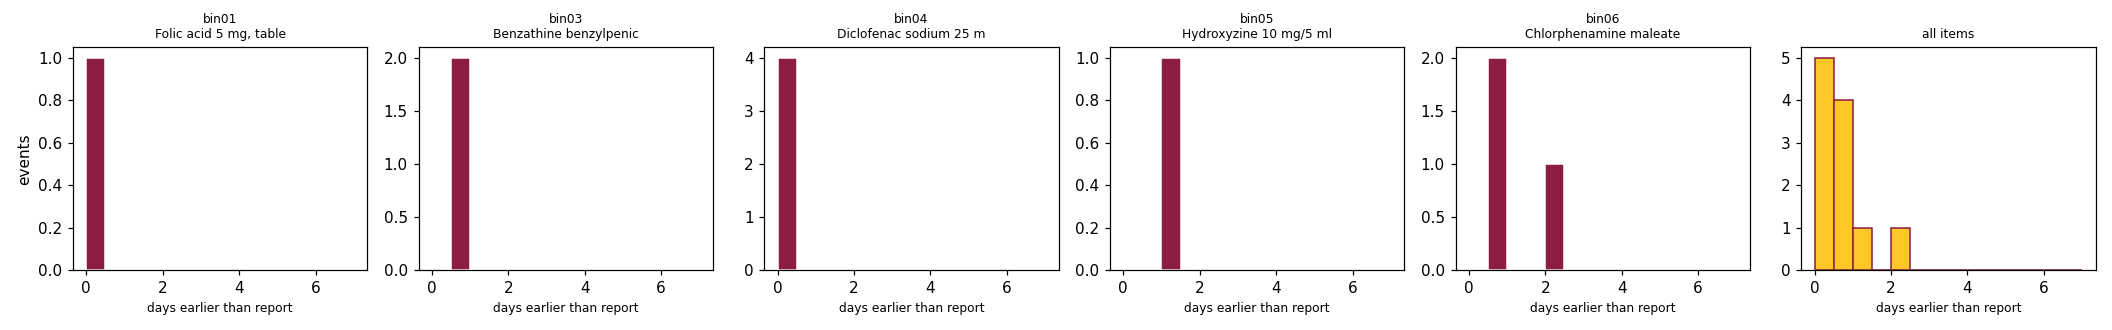
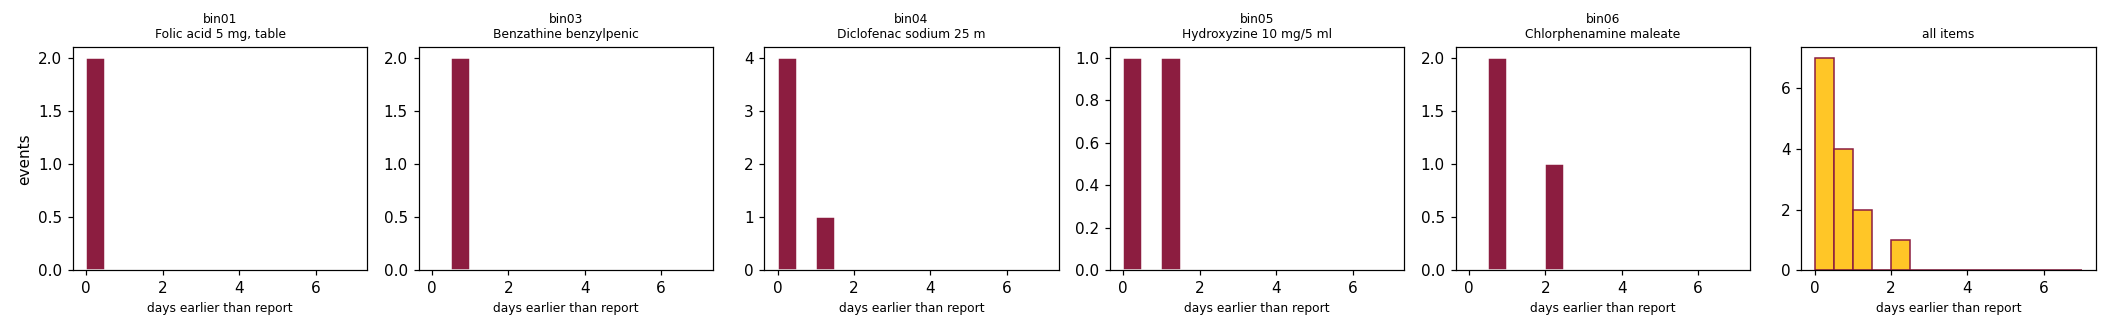
Twin branding and layout fixes; latency rerun on the full 159-day series
- twin: white header with the ASU logo and a clean title; CSS logo on the L3 dashboard and a
  CSS / DINALOG sign on the wall; the P-240 pop-up hides the events panel instead of overlapping it;
  header stays on one line at 1280 px
- latency (T3.6) rerun through the whole chain on the 109 report dates (8 Jun - 13 Nov 2026):
  14 crossings, mean 0.72 days, median 0.49, max 2.40; tools/latency.py reads the dates from the config
- Node-RED flow laid out more cleanly (no node positions changed in behaviour)
- README, work plan and simulator help: 159 days take about 27 minutes

diff --git a/docs/twin/index.html b/docs/twin/index.html
@@ -20,20 +20,22 @@
   #app { display: flex; flex-direction: column; height: 100%; }
 
   /* ---------- top bar ---------- */
-  #top { display: flex; align-items: center; gap: 18px; padding: 8px 16px; background: var(--maroon); color: #fff; flex-wrap: wrap; }
-  .brand { display: flex; align-items: baseline; gap: 10px; }
-  .brand .kicker { font-size: 10.5px; letter-spacing: .08em; text-transform: uppercase; opacity: .85; }
-  .brand h1 { margin: 0; font-size: 18px; font-weight: 650; white-space: nowrap; }
-  .brand h1 b { color: var(--gold); font-weight: 650; }
-  .seg { display: flex; background: rgba(255,255,255,.14); border-radius: 9px; padding: 3px; gap: 3px; }
+  #top { display: flex; align-items: center; gap: 16px; padding: 8px 16px; background: #fff; color: var(--ink);
+    border-bottom: 4px solid var(--gold); flex-wrap: wrap; }
+  .brand { display: flex; align-items: center; gap: 14px; }
+  .brand img { height: 38px; display: block; }
+  .brand h1 { margin: 0; font-size: 18px; font-weight: 700; color: var(--maroon); white-space: nowrap; line-height: 1.15; }
+  .brand .kicker { font-size: 12px; color: var(--muted); white-space: nowrap; }
+  .seg { display: flex; background: var(--idle); border-radius: 9px; padding: 3px; gap: 3px; }
   .seg button { border: 0; background: transparent; padding: 6px 11px; border-radius: 7px; font: inherit; font-size: 13px;
-    color: rgba(255,255,255,.85); cursor: pointer; white-space: nowrap; }
-  .seg button.on { background: #fff; color: var(--maroon); font-weight: 650; }
+    color: var(--muted); cursor: pointer; white-space: nowrap; }
+  .seg button.on { background: var(--maroon); color: #fff; font-weight: 650; }
   .clock { line-height: 1.15; }
   .clock .date { font-size: 16px; font-weight: 650; white-space: nowrap; font-variant-numeric: tabular-nums; }
-  .clock .day { font-size: 11.5px; opacity: .85; }
+  .clock .day { font-size: 11.5px; color: var(--muted); }
   .chips { display: flex; gap: 6px; flex-wrap: wrap; }
-  .chip { padding: 4px 9px; border-radius: 999px; font-size: 12px; background: rgba(255,255,255,.88); color: var(--muted); white-space: nowrap; }
+  .chip { padding: 4px 9px; border-radius: 999px; font-size: 12px; background: var(--idle); color: var(--muted); white-space: nowrap; }
+  body.binsel #events { visibility: hidden; }
   .chip.ok { background: var(--ok); color: var(--ok-ink); }
   .chip.low { background: var(--low); color: var(--low-ink); }
   .chip.flag { background: var(--flag); color: var(--flag-ink); }
@@ -60,7 +62,8 @@
   .btn.on { background: var(--maroon); color: #fff; }
   .btn.fault.on { background: var(--flag); color: var(--flag-ink); font-weight: 600; }
   .gap { width: 10px; }
-  #srcnote { margin-left: auto; font-size: 12px; color: var(--muted); text-align: right; }
+  #srcnote { margin-left: auto; font-size: 12px; color: var(--muted); text-align: right; flex: 1 1 0; min-width: 0;
+    white-space: nowrap; overflow: hidden; text-overflow: ellipsis; }
   #srcnote code { font-size: 11.5px; }
 
   /* ---------- 3D stage ---------- */
@@ -135,6 +138,9 @@
     border-radius: 8px; font: inherit; margin-top: 3px; }
   dialog .actions { display: flex; justify-content: flex-end; gap: 8px; margin-top: 16px; }
 
+  @media (max-width: 1360px) {
+    #c-msgs { display: none; }
+  }
   @media (max-width: 1100px) {
     #bins { grid-template-columns: repeat(3, minmax(0, 1fr)); }
     .bin:nth-child(n+4) .detail { left: 0; right: auto; }
@@ -149,7 +155,7 @@
     #bins { grid-template-columns: repeat(2, minmax(0, 1fr)); padding: 8px 10px; }
     .bin:nth-child(n) .detail { left: 0; right: auto; }
     .bin:nth-child(2n) .detail { left: auto; right: 0; }
-    #srcnote { margin-left: 0; text-align: left; }
+    #srcnote { margin-left: 0; text-align: left; white-space: normal; flex-basis: 100%; }
   }
 </style>
 <script type="importmap">
@@ -160,8 +166,11 @@
 <div id="app">
   <header id="top">
     <div class="brand">
-      <div class="kicker">MFG 598 IIoT · Smart Kanban Bins · UE-A</div>
-      <h1>Shelf digital <b>twin</b></h1>
+      <img src="img/asu_logo.png" alt="Arizona State University">
+      <div>
+        <h1>Smart Kanban Bins · Digital Twin</h1>
+        <div class="kicker">MFG 598 IIoT · Group 2 · CSS facility UE-A</div>
+      </div>
     </div>
     <div class="seg" id="src">
       <button data-src="demo">Replay</button>

diff --git a/docs/twin/twin.js b/docs/twin/twin.js
@@ -337,6 +337,32 @@ for (const b of bins.values()) {                 // delivery path: from the ERP 
     new THREE.Vector3((L4.world.x + top.x) / 2, 1.45, 0.25), top.clone().add(new THREE.Vector3(0, 0.35, 0.05)), top]);
 }
 
+const CSS_LOGO = new Image();
+CSS_LOGO.onload = () => { ent.dirty = true; drawSign(); };
+CSS_LOGO.src = 'img/css_logo.png';
+
+// sign on the wall: whose shelf this is
+const sign = (() => {
+  const c = document.createElement('canvas'); c.width = 1400; c.height = 220;
+  const tex = new THREE.CanvasTexture(c); tex.colorSpace = THREE.SRGBColorSpace; tex.anisotropy = 8;
+  const m = new THREE.Mesh(new THREE.PlaneGeometry(1.5, 0.236), new THREE.MeshBasicMaterial({ map: tex, transparent: true, toneMapped: false }));
+  m.position.set(0.1, 2.15, -0.775);
+  scene.add(m);
+  return { c, tex };
+})();
+function drawSign() {
+  const ctx = sign.c.getContext('2d'), W = sign.c.width, H = sign.c.height;
+  ctx.clearRect(0, 0, W, H);
+  if (CSS_LOGO.complete && CSS_LOGO.naturalWidth) ctx.drawImage(CSS_LOGO, 10, 10, 200, 200);
+  ctx.textBaseline = 'middle';
+  ctx.fillStyle = '#1A5BA8'; ctx.font = '700 64px Segoe UI, Arial';
+  ctx.fillText('Caja de Seguro Social', 240, 78);
+  ctx.fillStyle = '#4b5563'; ctx.font = '40px Segoe UI, Arial';
+  ctx.fillText(`DINALOG · facility ${UE} · smart Kanban pharmacy shelf`, 242, 150);
+  sign.tex.needsUpdate = true;
+}
+drawSign();
+
 const ent = { hist: new Map(), reqs: [], seq: 0, cloudMin: null, cycle: null, dirty: true };
 function resetEnterprise() {
   ent.hist = new Map([...bins.keys()].map(k => [k, []]));
@@ -394,9 +420,13 @@ function drawL3() {
   const { ctx, canvas } = L3, W = canvas.width, H = canvas.height, s = W / 1400;
   ctx.fillStyle = '#111217'; ctx.fillRect(0, 0, W, H);
   ctx.fillStyle = '#e8e9ed'; ctx.font = `600 ${30 * s}px Segoe UI, Arial`; ctx.textBaseline = 'middle';
-  const title = `Smart Kanban · ${UE}`;
-  ctx.fillText(title, 28 * s, 34 * s);
-  const tx = 28 * s + ctx.measureText(title).width + 22 * s;
+  let lx = 28 * s;
+  if (CSS_LOGO.complete && CSS_LOGO.naturalWidth) { ctx.fillStyle = '#fff'; ctx.beginPath(); ctx.arc(lx + 25 * s, 34 * s, 25 * s, 0, Math.PI * 2); ctx.fill();
+    ctx.drawImage(CSS_LOGO, lx + 1 * s, 10 * s, 48 * s, 48 * s); lx += 62 * s; }
+  ctx.fillStyle = '#e8e9ed';
+  const title = `CSS · Smart Kanban · ${UE}`;
+  ctx.fillText(title, lx, 34 * s);
+  const tx = lx + ctx.measureText(title).width + 22 * s;
   ctx.font = `${20 * s}px Segoe UI, Arial`; ctx.fillStyle = '#9aa0ab';
   ctx.fillText(ent.cloudMin != null ? 'last data in the cloud: ' + simDate(ent.cloudMin) : 'waiting for data', tx, 35 * s);
   const online = state.gateway !== 'offline' && state.lastMsg;
@@ -563,6 +593,7 @@ for (const b of bins.values()) {
 
 function select(binId) {
   state.selected = binId;
+  document.body.classList.toggle('binsel', !!binId);       // the P-240 pop-up takes the place of the events panel
   for (const b of bins.values()) {
     const on = b.cfg.bin === binId;
     b.row.classList.toggle('sel', on);
@@ -602,7 +633,7 @@ function refreshChips() {
   else if (state.broker === true) setChip(ui.broker, 'ok', 'broker connected');
   else if (state.broker === false) setChip(ui.broker, 'flag', `broker down: ${state.queue} queued`);
   else setChip(ui.broker, '', 'broker —');
-  setChip(ui.msgs, 'info', `${state.sent.toLocaleString('en-US')} messages sent`);
+  setChip(ui.msgs, 'info', `${state.sent.toLocaleString('en-US')} msgs sent`);
   const down = state.broker === false || state.gateway === 'offline';
   ui.banner.style.display = down ? 'block' : 'none';
   ui.banner.textContent = state.gateway === 'offline' ? 'Gateway offline: last will received'

diff --git a/docs/index.html b/docs/index.html
@@ -412,7 +412,7 @@ const P = [
    "For each pair of consecutive report dates, the consumption is the drop in stock. An increase is a receipt and appears as a step up on the report date.",
    "Spread the drop over the days in between: draw daily Poisson values with mean = drop / days, then rescale so they add up exactly to the drop.",
    "Split each day into a few dispense events at random times.",
-   "Time compression from an environment variable, for example <code>SIM_SECONDS_PER_DAY=10</code> (131 days ≈ 22 minutes).",
+   "Time compression from an environment variable, for example <code>SIM_SECONDS_PER_DAY=10</code> (159 days ≈ 27 minutes).",
    "Convert units to grams: <code>tare + units × unit_g</code>, and write the registers.",
    "Add a test that checks the simulated stock against the SALMI value on every report date."]],
   ["T2.3","Six bins","Extend the simulator to six bins (one unit ID or register block per bin)","Edge reads six independent weights","DB","11-09","11-11","T2.2",[

diff --git a/tools/latency.py b/tools/latency.py
@@ -123,7 +123,8 @@ def main():
           "How much earlier does a sensed bin detect a P-240 reorder-point (ROP) crossing than "
           "the SALMI stock report would?", "",
           "## Method", "",
-          "1. A full replay of the 92 UE-A report dates (8 Jun - 17 Oct 2026) runs through the whole "
+          f"1. A full replay of the {cfg['report_dates']} UE-A report dates ({date.fromisoformat(cfg['first_date']):%d %b} - "
+          f"{date.fromisoformat(cfg['last_date']):%d %b %Y}) runs through the whole "
           "chain: simulator -> Modbus -> Node-RED edge (units, deadband, P-240 with hysteresis) -> MQTT -> ingest.",
           "2. For each reorder event published by the edge, the **sensed time** is the simulated time "
           "of the reading that crossed the ROP (`sim_min`, read from the simulator registers 40004-40005).",

diff --git a/simulator/server.py b/simulator/server.py
@@ -12,7 +12,7 @@ The stock follows the SALMI series (replay engine in replay.py), with time compr
 one simulated day lasts SIM_SECONDS_PER_DAY real seconds.
 
 Environment variables (all optional):
-  SIM_SECONDS_PER_DAY  real seconds per simulated day (default 10: 131 days = about 22 min)
+  SIM_SECONDS_PER_DAY  real seconds per simulated day (default 10: 159 days = about 27 min)
   SIM_START_DAY        simulated day to start from (default 0)
   SIM_LOOP             1 = start the replay again after the last report date (default 1)
   SIM_SEED             random seed for the replay paths and the noise (default 42)

diff --git a/docs/latency.md b/docs/latency.md
@@ -4,45 +4,48 @@ How much earlier does a sensed bin detect a P-240 reorder-point (ROP) crossing t
 
 ## Method
 
-1. A full replay of the 92 UE-A report dates (8 Jun - 17 Oct 2026) runs through the whole chain: simulator -> Modbus -> Node-RED edge (units, deadband, P-240 with hysteresis) -> MQTT -> ingest.
+1. A full replay of the 109 UE-A report dates (08 Jun - 13 Nov 2026) runs through the whole chain: simulator -> Modbus -> Node-RED edge (units, deadband, P-240 with hysteresis) -> MQTT -> ingest.
 2. For each reorder event published by the edge, the **sensed time** is the simulated time of the reading that crossed the ROP (`sim_min`, read from the simulator registers 40004-40005).
 3. The **report time** is the first SALMI report date, at or after the sensed time, on which the reported stock is at or below the same ROP.
 4. **Latency = report time - sensed time**, in days. Positive means the sensor saw the crossing earlier.
 5. Events where the last report *before* the event already showed the stock at or below the ROP are excluded: there the report, not the sensor, saw it first (this happens when a bin starts the series already below its ROP).
 
-Input: `full_run_reorder.csv`, replay cycle 0, 12 reorder events. Generated by `python tools/latency.py`.
+Input: `full_run_159.jsonl`, replay cycle 0, 15 reorder events. Generated by `python tools/latency.py`.
 
 ## Result per event
 
 | Bin | Item | Sensed (simulated date) | Units | ROP | First report <= ROP | Reported stock | Latency (days) |
 |---|---|---|---|---|---|---|---|
-| bin01 | Folic acid 5 mg | 2026-07-01 13h | 2677 | 2863.6 | 2026-07-02 | 2000 | 0.43 |
-| bin03 | Benzathine benzylpenicillin 2 | 2026-06-25 01h | 79 | 79.9 | 2026-06-26 | 60 | 0.93 |
-| bin03 | Benzathine benzylpenicillin 2 | 2026-09-30 10h | 75 | 79.9 | 2026-10-01 | 69 | 0.57 |
-| bin04 | Diclofenac sodium 25 mg/ml | 2026-06-23 18h | 131 | 132.0 | 2026-06-24 | 125 | 0.23 |
-| bin04 | Diclofenac sodium 25 mg/ml | 2026-07-12 13h | 130 | 132.0 | 2026-07-13 | 130 | 0.42 |
-| bin04 | Diclofenac sodium 25 mg/ml | 2026-07-28 16h | 130 | 132.0 | 2026-07-29 | 130 | 0.31 |
-| bin04 | Diclofenac sodium 25 mg/ml | 2026-09-23 14h | 105 | 132.0 | 2026-09-24 | 105 | 0.38 |
-| bin05 | Hydroxyzine 10 mg/5 ml syrup | 2026-07-18 16h | 15 | 16.0 | 2026-07-20 | 14 | 1.32 |
-| bin06 | Chlorphenamine maleate 2-2.5 mg/5 ml syrup | 2026-06-08 08h | 44 | 70.6 | 2026-06-08 | 43 | excluded: report of 2026-06-08 already showed 43 |
-| bin06 | Chlorphenamine maleate 2-2.5 mg/5 ml syrup | 2026-08-09 11h | 70 | 70.6 | 2026-08-10 | 69 | 0.50 |
-| bin06 | Chlorphenamine maleate 2-2.5 mg/5 ml syrup | 2026-08-30 05h | 70 | 70.6 | 2026-08-31 | 67 | 0.79 |
-| bin06 | Chlorphenamine maleate 2-2.5 mg/5 ml syrup | 2026-10-02 15h | 70 | 70.6 | 2026-10-05 | 50 | 2.37 |
+| bin01 | Folic acid 5 mg | 2026-07-01 13h | 2676 | 2863.6 | 2026-07-02 | 2000 | 0.45 |
+| bin01 | Folic acid 5 mg | 2026-11-06 22h | 2454 | 2863.6 | 2026-11-07 | 2454 | 0.08 |
+| bin03 | Benzathine benzylpenicillin 2 | 2026-06-25 03h | 65 | 79.9 | 2026-06-26 | 60 | 0.86 |
+| bin03 | Benzathine benzylpenicillin 2 | 2026-09-30 09h | 75 | 79.9 | 2026-10-01 | 69 | 0.60 |
+| bin04 | Diclofenac sodium 25 mg/ml | 2026-06-23 17h | 131 | 132.0 | 2026-06-24 | 125 | 0.26 |
+| bin04 | Diclofenac sodium 25 mg/ml | 2026-07-12 13h | 130 | 132.0 | 2026-07-13 | 130 | 0.45 |
+| bin04 | Diclofenac sodium 25 mg/ml | 2026-07-28 15h | 130 | 132.0 | 2026-07-29 | 130 | 0.34 |
+| bin04 | Diclofenac sodium 25 mg/ml | 2026-09-23 16h | 105 | 132.0 | 2026-09-24 | 105 | 0.31 |
+| bin04 | Diclofenac sodium 25 mg/ml | 2026-10-31 14h | 121 | 132.0 | 2026-11-02 | 100 | 1.38 |
+| bin05 | Hydroxyzine 10 mg/5 ml syrup | 2026-07-18 15h | 15 | 16.0 | 2026-07-20 | 14 | 1.35 |
+| bin05 | Hydroxyzine 10 mg/5 ml syrup | 2026-10-22 14h | 14 | 16.0 | 2026-10-23 | 14 | 0.39 |
+| bin06 | Chlorphenamine maleate 2-2.5 mg/5 ml syrup | 2026-06-08 10h | 44 | 70.6 | 2026-06-08 | 43 | excluded: report of 2026-06-08 already showed 43 |
+| bin06 | Chlorphenamine maleate 2-2.5 mg/5 ml syrup | 2026-08-09 11h | 70 | 70.6 | 2026-08-10 | 69 | 0.53 |
+| bin06 | Chlorphenamine maleate 2-2.5 mg/5 ml syrup | 2026-08-30 06h | 70 | 70.6 | 2026-08-31 | 67 | 0.72 |
+| bin06 | Chlorphenamine maleate 2-2.5 mg/5 ml syrup | 2026-10-02 14h | 70 | 70.6 | 2026-10-05 | 50 | 2.40 |
 
 ## Summary per item
 
 | Bin | Item | Events | Mean latency (days) | Min | Max |
 |---|---|---|---|---|---|
-| bin01 | Folic acid 5 mg | 1 | 0.43 | 0.43 | 0.43 |
+| bin01 | Folic acid 5 mg | 2 | 0.27 | 0.08 | 0.45 |
 | bin02 | Paracetamol (acetaminophen) 500 mg | 0 | - | - | - |
-| bin03 | Benzathine benzylpenicillin 2 | 2 | 0.75 | 0.57 | 0.93 |
-| bin04 | Diclofenac sodium 25 mg/ml | 4 | 0.33 | 0.23 | 0.42 |
-| bin05 | Hydroxyzine 10 mg/5 ml syrup | 1 | 1.32 | 1.32 | 1.32 |
-| bin06 | Chlorphenamine maleate 2-2.5 mg/5 ml syrup | 3 | 1.22 | 0.50 | 2.37 |
+| bin03 | Benzathine benzylpenicillin 2 | 2 | 0.73 | 0.60 | 0.86 |
+| bin04 | Diclofenac sodium 25 mg/ml | 5 | 0.55 | 0.26 | 1.38 |
+| bin05 | Hydroxyzine 10 mg/5 ml syrup | 2 | 0.87 | 0.39 | 1.35 |
+| bin06 | Chlorphenamine maleate 2-2.5 mg/5 ml syrup | 3 | 1.22 | 0.53 | 2.40 |
 
-**All items:** 11 events, mean 0.75 days, median 0.50 days, max 2.37 days earlier than the report.
+**All items:** 14 events, mean 0.72 days, median 0.49 days, max 2.40 days earlier than the report.
 
-For context: UE-A reported on 92 dates in 131 days (gap between reports: median 1 day, max 4 days). The gain from sensing grows with that gap: a facility that reports weekly would see crossings up to about a week later than the bins do.
+For context: UE-A reported on 109 dates in 158 days (gap between reports: median 1 day, max 4 days). The gain from sensing grows with that gap: a facility that reports weekly would see crossings up to about a week later than the bins do.
 
 ![Latency histograms](img/latency.png)
 

diff --git a/README.md b/README.md
@@ -73,7 +73,7 @@ Then open:
 | Raw MQTT messages | MQTT Explorer → your EMQX address, port 8883, TLS on, subscribe `css/#` |
 | Modbus registers | `modpoll -m tcp -p 5020 -a 1 -r 1 -c 6 localhost` |
 
-The replay of 131 days takes about 22 minutes (`SIM_SECONDS_PER_DAY=10`). Set `SIM_START_DAY` in
+The replay of 159 days takes about 27 minutes (`SIM_SECONDS_PER_DAY=10`). Set `SIM_START_DAY` in
 `.env` to start later in the series, and `SIM_FAULTS` to switch on a fault
 (for example `bin03.stuck_from_day=30`).
 
@@ -121,8 +121,9 @@ node --test "edge/test/*.test.js"                    # P-240 against the CSS das
 
 ## Results
 
-**Detection latency (T3.6).** In a full replay through the whole chain, the bins saw 11 reorder-point
-crossings on average **0.75 days** (median 0.50, max 2.37) before the SALMI report that showed them.
+**Detection latency (T3.6).** In a full replay of the 109 report dates (8 Jun - 13 Nov 2026) through the
+whole chain, the bins saw 14 reorder-point crossings on average **0.72 days** (median 0.49, max 2.40) before
+the SALMI report that showed them.
 The gain is small because UE-A reported almost daily (median gap 1 day); it grows with the gap
 between reports. The result is model-based: the stock path between report dates is simulated.
 Details and limits: [docs/latency.md](docs/latency.md).
